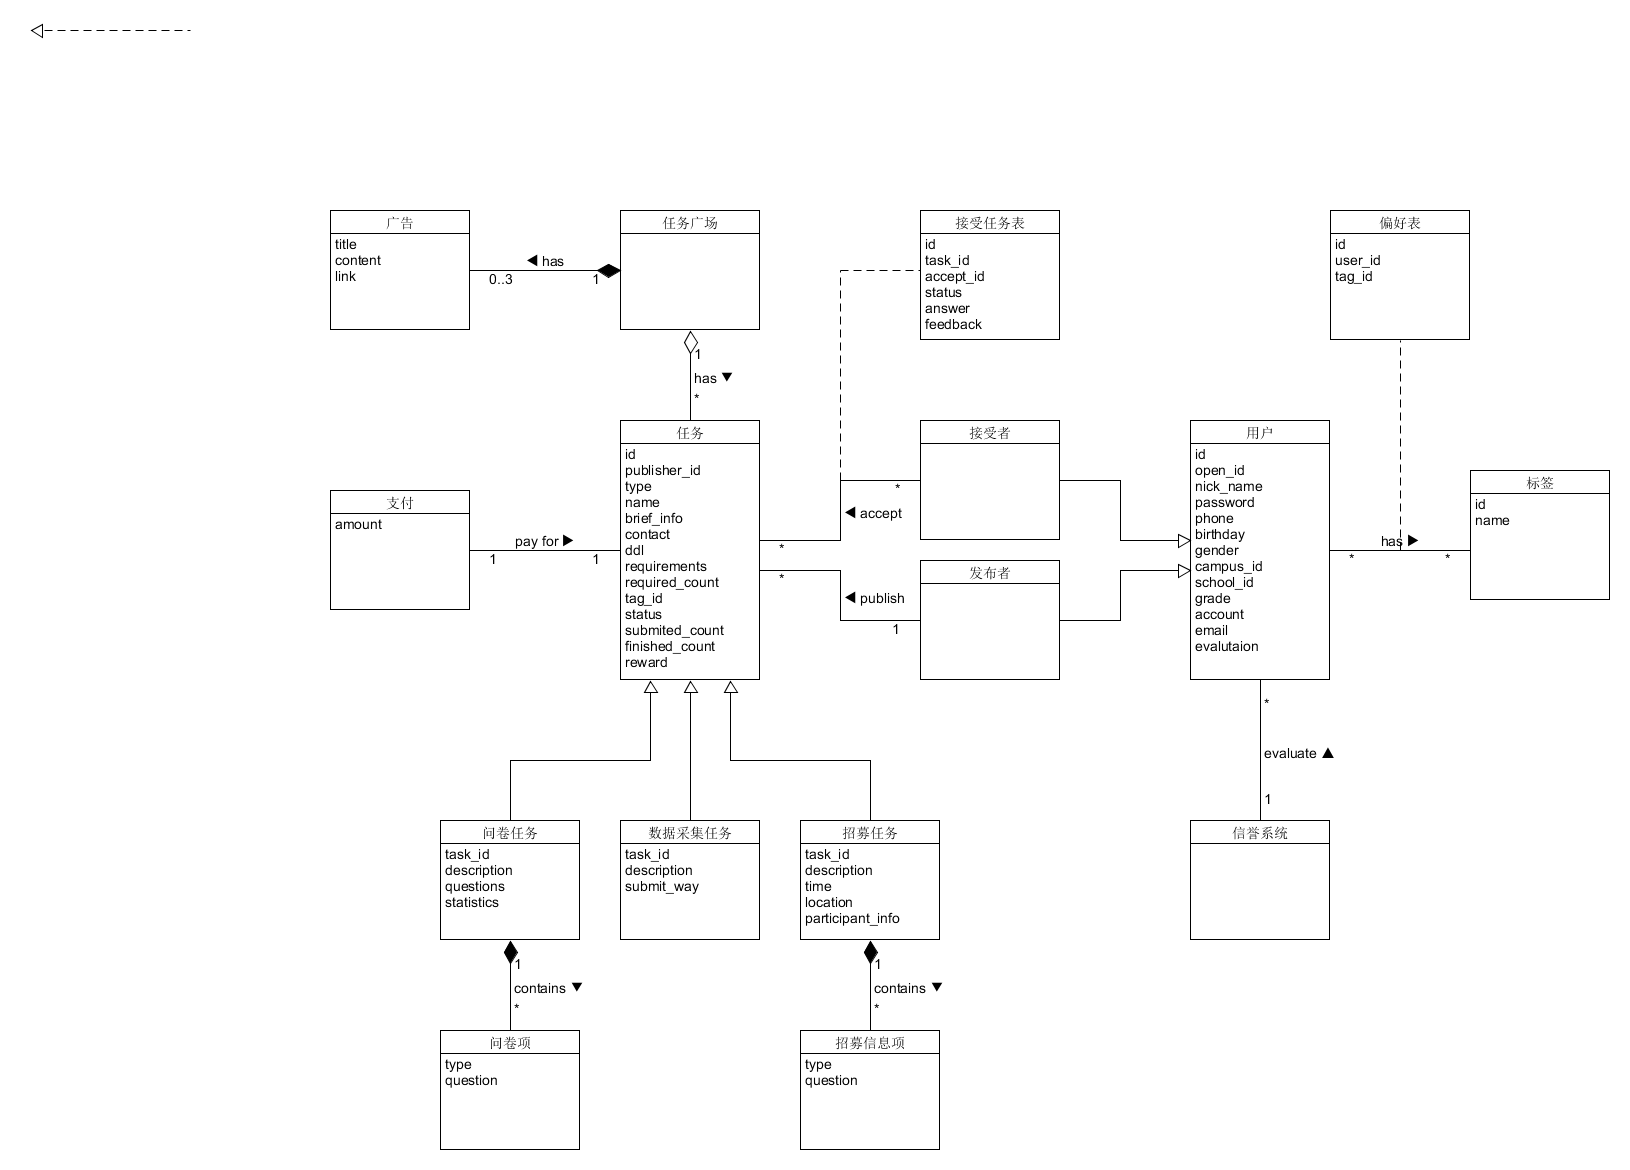
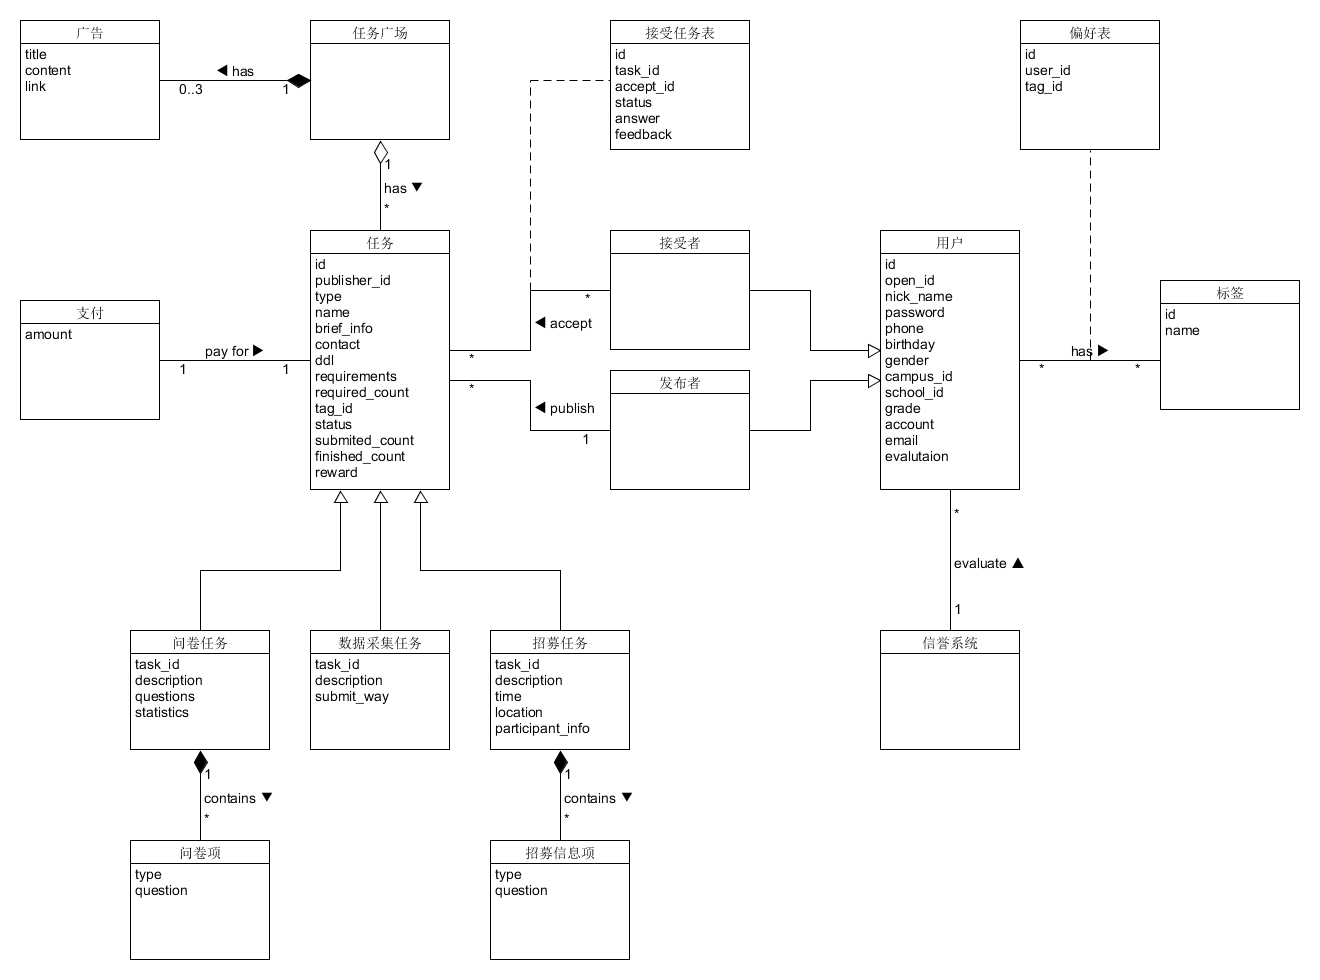
重新调整api、领域模型展示

diff --git a/api/README.md b/api/README.md
@@ -1,14 +1,22 @@
 ## Baobaozhuan Api 设计文档
 
+{:.no_toc}
+
+* 目录
+{:toc}
+
+---
+
 ### 如何使用
 
 1. 打开 [Swagger Editor](http://editor.swagger.io/)
 
-2. 将该 api.yaml 文件内容复制到编辑器中
+2. 将该 [api.yaml](./api.yaml) 文件内容复制到编辑器中
 
 3. 右侧将显示可交互的动态api文档，可查看并测试
 
 ### 编辑历史
+
 | 版本 |   日期    | 描述 |  作者   |
 | :--: | :-------: | :--: | :-----: |
 | v1.0 | 2019-05-13 | 登录注册api | gitgiter |

diff --git a/index.md b/index.md
@@ -14,7 +14,7 @@
 - 7、Design（设计说明书）
     - 7.1 UI design（界面设计）
     - 7.2 [Database design](imgs/db_design.png)（数据库设计）
-    - 7.3 Interface API design（接口 API 设计）
+    - 7.3 [Interface API design](api/README.md)（接口 API 设计）
     - 7.4 Architecture design（架构设计）
     - 7.5 Usecase design（用例设计）
 - 8- 、生产规范与指南

diff --git a/domain-model/README.md b/domain-model/README.md
@@ -5,7 +5,10 @@
 * 目录
 {:toc}
 
+---
+
 ### 编辑历史
+
 | 版本 |   日期    | 描述 |  作者   |
 | :--: | :-------: | :--: | :-----: |
 | v1.0 | 2019-04-16 | 领域模型雏形 | gitgiter |
